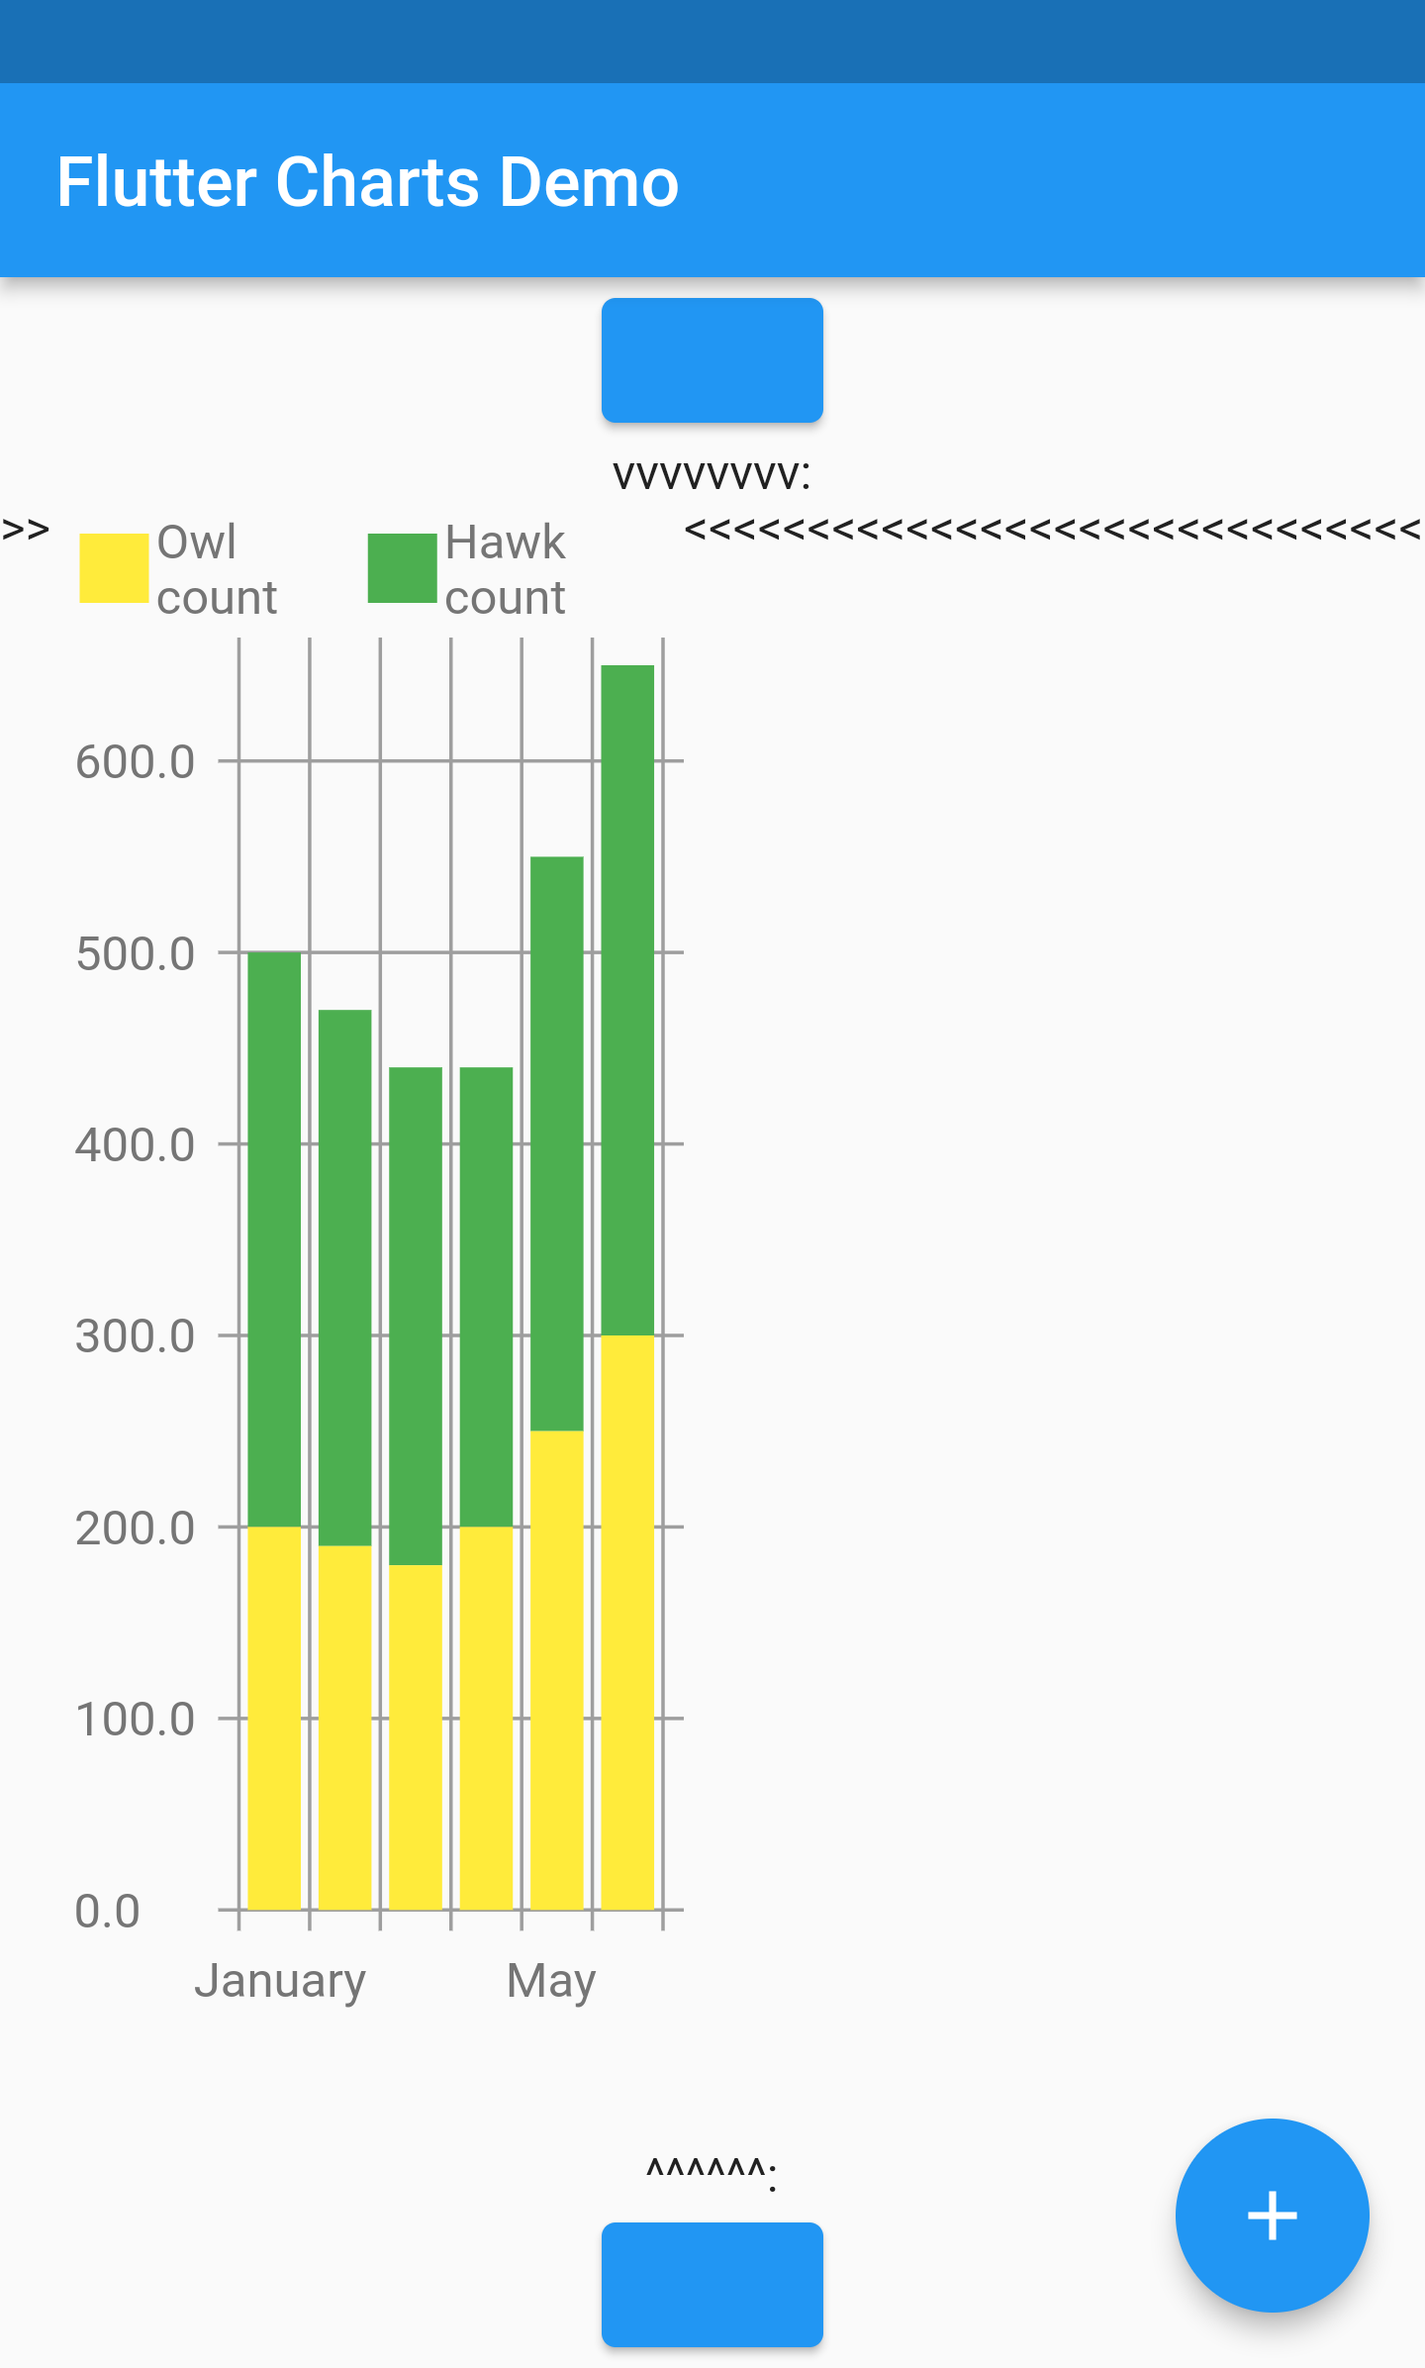
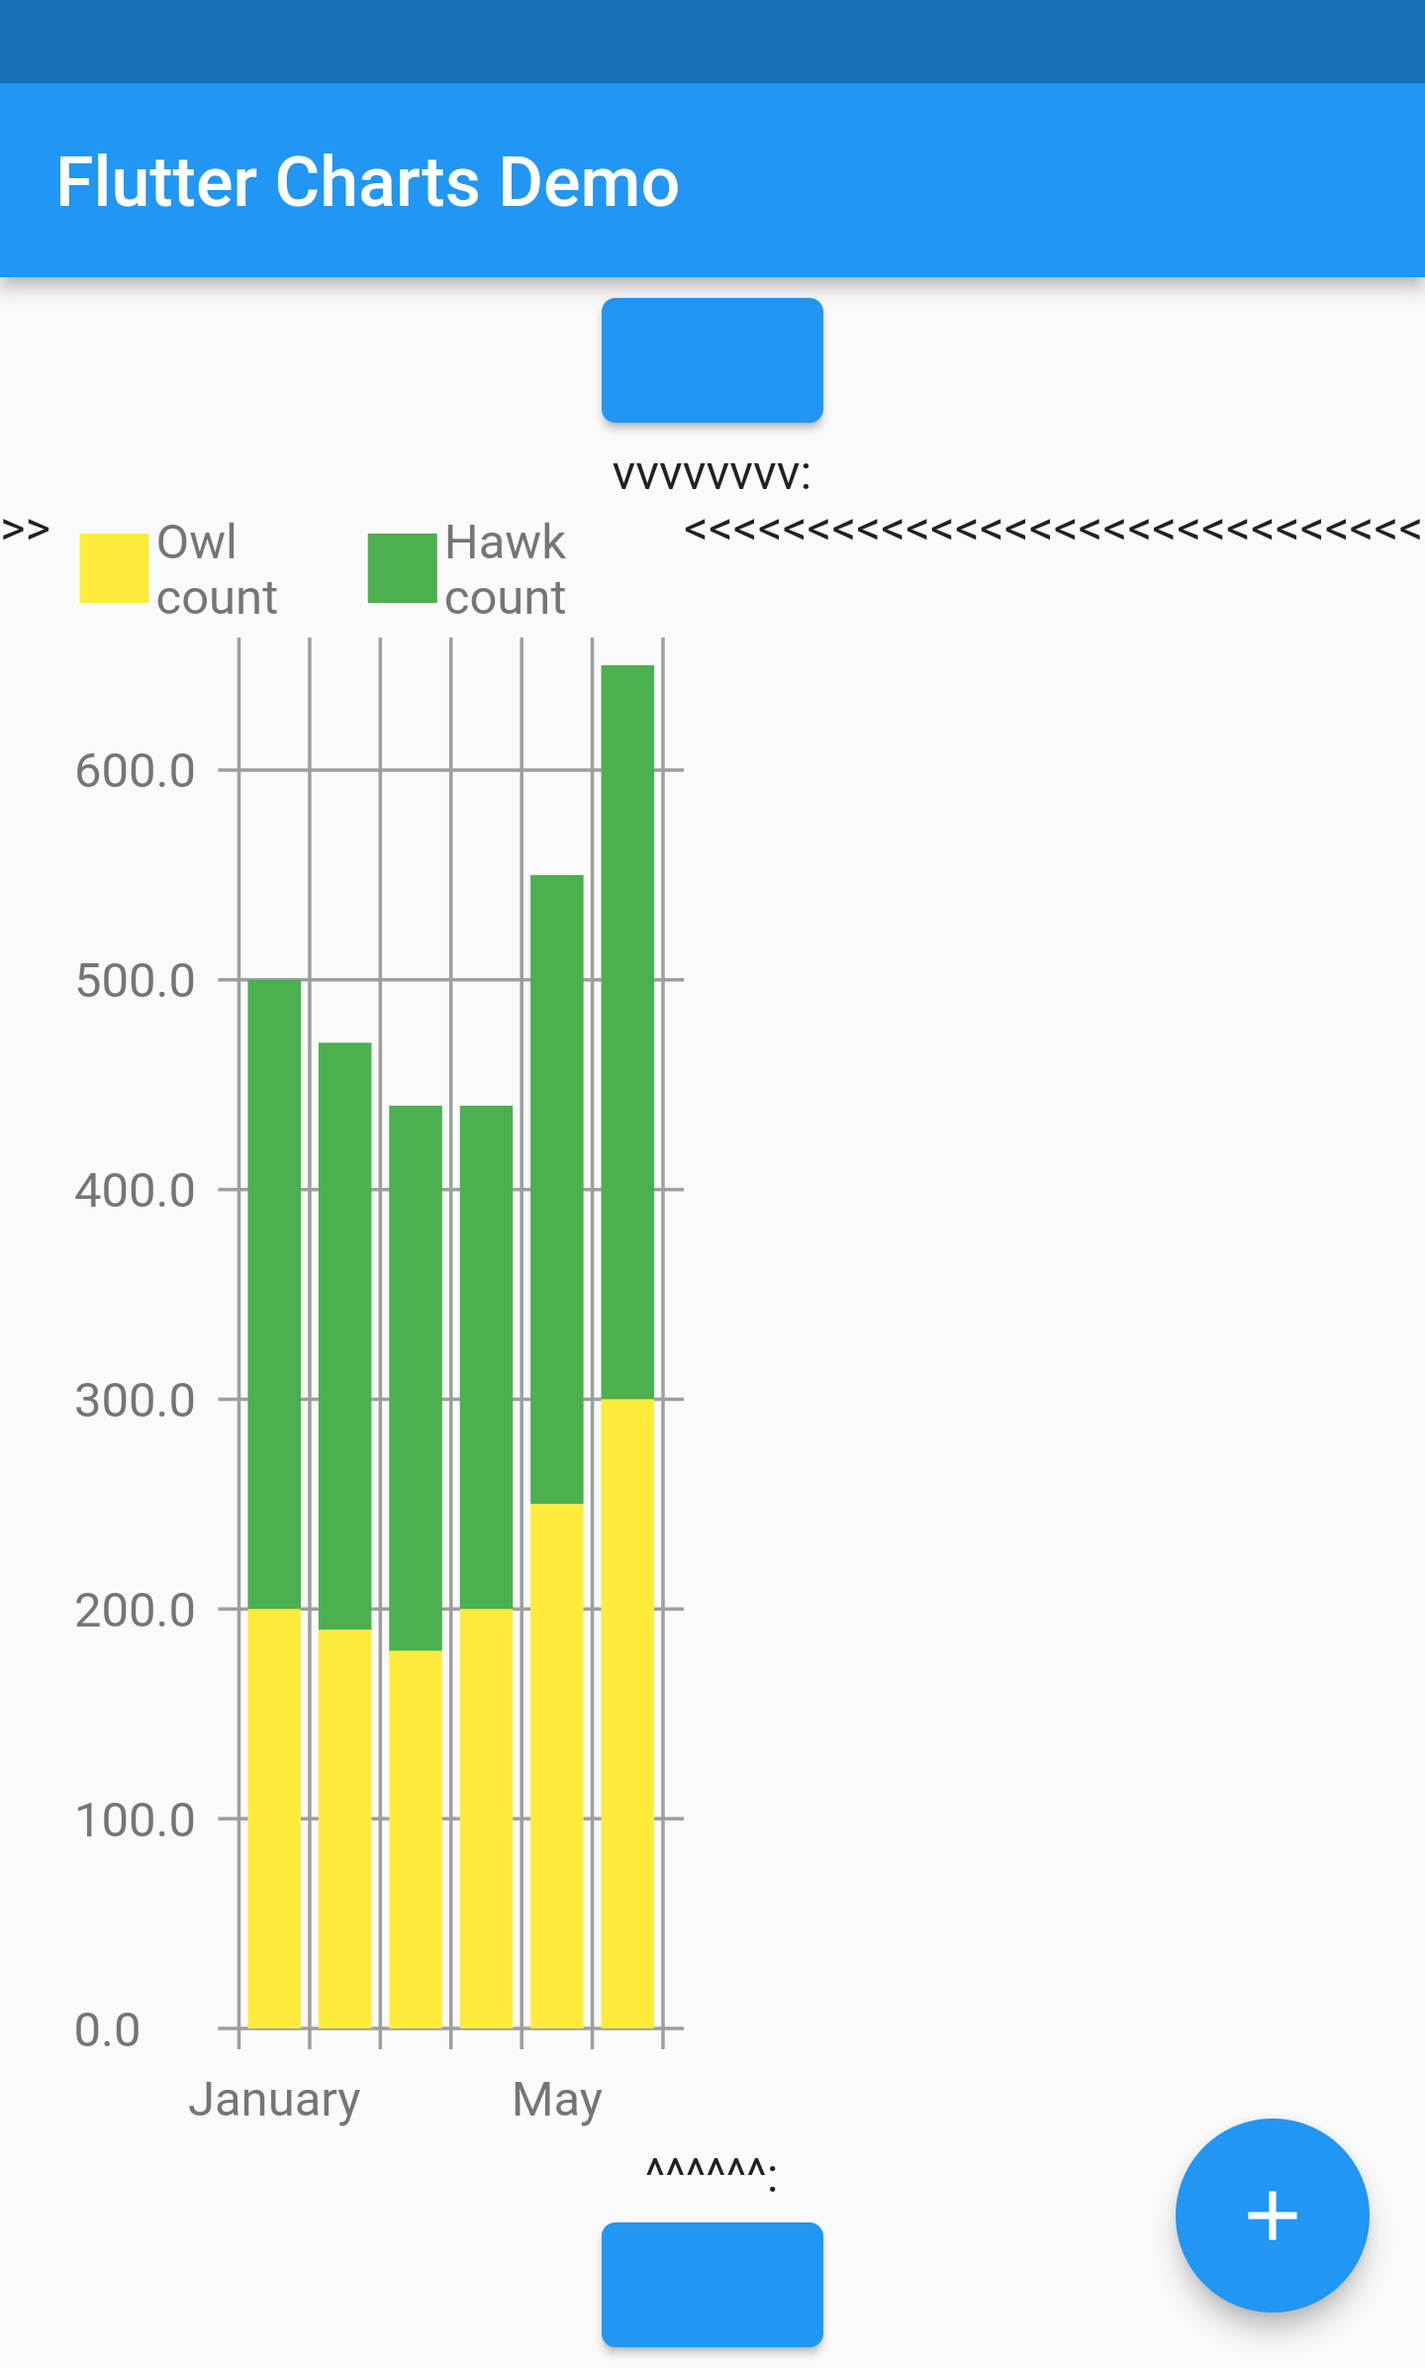
Working on generalized Containers.

diff --git a/lib/src/chart/label_container.dart b/lib/src/chart/label_container.dart
@@ -36,20 +36,14 @@ class LabelContainer extends container_base.Container {
   /// Max width of label (outside constraint)
   final double _labelMaxWidth;
   
-  // todo-00-last
+  /// Offset of this [LabelContainer]'s label, created by the [_textPainter].
+  /// 
   Offset offsetOfPotentiallyRotatedLabel = Offset.zero;
-
-  /// For tilted labels, this is the forward rotation matrix
-  /// to apply on both Canvas AND label envelope's topLeft offset's coordinate
-  /// (pivoted on origin, once all chart offsets are applied to label).
-  /// This is always the inverse of [_labelTiltMatrix].
-  // todo-00-last final vector_math.Matrix2 _canvasTiltMatrix;
 
   /// Rotation matrix representing the angle by which the label is tilted.
   /// 
-  /// For tilted labels, this is the backward rotation matrix todo-00
-  /// to apply on both Canvas AND label envelope's topLeft offset's coordinate
-  /// (pivoted on origin, once all chart offsets are applied to label).
+  /// Tilting of labels is achieve by applying this [Matrix2] on the 
+  /// rectangle which surrounds the label text.
   final vector_math.Matrix2 _labelTiltMatrix;
 
   /// [TextPainter] wrapped in this label container.
@@ -74,11 +68,9 @@ class LabelContainer extends container_base.Container {
     required String label,
     required double labelMaxWidth,
     required vector_math.Matrix2 labelTiltMatrix,
-    // todo-00-last required vector_math.Matrix2 canvasTiltMatrix,
     required LabelStyle labelStyle,
   })  : _labelMaxWidth = labelMaxWidth,
         _labelTiltMatrix = labelTiltMatrix,
-        // todo-00-last _canvasTiltMatrix = canvasTiltMatrix,
         // _labelStyle = labelStyle,
         _textPainter = widgets.TextPainter(
           text: widgets.TextSpan(
@@ -113,17 +105,24 @@ class LabelContainer extends container_base.Container {
 
   // #####  Implementors of method in superclass [Container].
 
-  // todo-00-last: 
+  // todo-01-document : 
+  /// Calls super method, then adds the passed [offset] the locally-kept slot
+  /// [offsetOfPotentiallyRotatedLabel].
   @override
   void applyParentOffset(ui.Offset offset) {
     super.applyParentOffset(offset);
-    offsetOfPotentiallyRotatedLabel += offset;
+    // todo-00-last: For [LabelContainers] for which Canvas will be rotated counter-clockwise,
+    //               offset needs to be rotated clockwise before adding it.
+    //////////// vvvvvvvvvvvv added
+    rotateLabelEnvelopeAgainstCanvasToFindOffsetToPaintIt();    
+    ////////////^^^^^^^^^^^^^^^
+    
+    // offsetOfPotentiallyRotatedLabel += offset;
   }
   
   /// Implementor of method in superclass [Container].
   @override
   void paint(ui.Canvas canvas) {
-    // todo-00-last _textPainter.paint(canvas, offset);
     _textPainter.paint(canvas, offsetOfPotentiallyRotatedLabel);
   }
 
@@ -136,21 +135,33 @@ class LabelContainer extends container_base.Container {
     _tiltedLabelEnvelope = _createLabelEnvelope();
   }
 
-/* todo-00-last
-  geometry.EnvelopedRotatedRect _createLabelEnvelope() {
-    // todo-00-last : Just make offset zero
-    assert(offset == ui.Offset.zero);
-    // Only after layout, we know the envelope of tilted label
-    return geometry.EnvelopedRotatedRect.centerRotatedFrom(
-      rect: offset & _textPainter.size, // offset & size => Rect
-      rotateMatrix: _labelTiltMatrix,
+  /// Rotate this label around origin along with Canvas, to achieve label tilt.
+  ///
+  /// Must be called only in paint()
+  void rotateLabelEnvelopeAgainstCanvasToFindOffsetToPaintIt() {
+    // In paint(), this label's offset is now the "absolute" offset in the chart
+    // The point in the tilted rectangle, where [TextPainter] should start
+    // painting the label is always topLeft in the envelope.
+    // The envelope is kept at (0,0), so find the full offset of
+    // the [_tiltedLabelEnvelope.topLeft] in the "absolute" coordinates,
+    // then rotate the result with Canvas.
+
+    // 
+    vector_math.Matrix2 canvasTiltMatrix = _labelTiltMatrix.clone();
+    canvasTiltMatrix.invert();
+/* todo-00-last: removed
+    offsetOfPotentiallyRotatedLabel = geometry.transform(
+      matrix: canvasTiltMatrix,
+      offset: (offsetOfPotentiallyRotatedLabel + _tiltedLabelEnvelope.topLeft),
+    );
+*/
+    offsetOfPotentiallyRotatedLabel = geometry.transform(
+      matrix: canvasTiltMatrix,
+      offset: (offset + _tiltedLabelEnvelope.topLeft),
     );
   }
-*/
-  
+
   geometry.EnvelopedRotatedRect _createLabelEnvelope() {
-    // todo-00-last : Just make offset zero
-    // todo-00-last assert(offset == ui.Offset.zero);
     // Only after layout, we know the envelope of tilted label
     return geometry.EnvelopedRotatedRect.centerRotatedFrom(
       rect: ui.Offset.zero & _textPainter.size, // offset & size => Rect
@@ -262,57 +273,21 @@ class AxisLabelContainer extends LabelContainer {
   /// but both x and y label containers can be skipped
   /// (tick dashes should not?).
   ///
+  // todo-01 how is this used?
   double parentOffsetTick = 0.0;
 
   AxisLabelContainer({
     required String label,
     required double labelMaxWidth,
     required vector_math.Matrix2 labelTiltMatrix,
-    // todo-00-last required vector_math.Matrix2 canvasTiltMatrix,
     required LabelStyle labelStyle,
   }) : super(
           label: label,
           labelMaxWidth: labelMaxWidth,
           labelTiltMatrix: labelTiltMatrix,
-    // todo-00-last canvasTiltMatrix: canvasTiltMatrix,
           labelStyle: labelStyle,
         );
 
-  /// Rotate this label around origin along with Canvas, to achieve label tilt.
-  ///
-  /// Must be called only in paint()
-  void rotateLabelEnvelopeAgainstCanvasToFindOffsetToPaintIt() {
-    // In paint(), this label's offset is now the "absolute" offset in the chart
-    // The point in the tilted rectangle, where [TextPainter] should start
-    // painting the label is always topLeft in the envelope.
-    // The envelope is kept at (0,0), so find the full offset of
-    // the [_tiltedLabelEnvelope.topLeft] in the "absolute" coordinates,
-    // then rotate the result with Canvas.
-
-    // 
-/* todo-00-last
-    vector_math.Matrix2 canvasTiltMatrix = _labelTiltMatrix.clone();
-    canvasTiltMatrix.invert();
-    offset = geometry.transform(
-      // todo-00-last matrix: _canvasTiltMatrix,
-      matrix: canvasTiltMatrix,
-      offset: (offset + _tiltedLabelEnvelope.topLeft),
-    );
-*/
-    vector_math.Matrix2 canvasTiltMatrix = _labelTiltMatrix.clone();
-    canvasTiltMatrix.invert();
-    offsetOfPotentiallyRotatedLabel = geometry.transform(
-      // todo-00-last matrix: _canvasTiltMatrix,
-      matrix: canvasTiltMatrix,
-      offset: (offsetOfPotentiallyRotatedLabel + _tiltedLabelEnvelope.topLeft),
-    );
-    
-    // todo-00-last: This is the only place where offset is set directly, outside applyParentOffset. Is it possible, instead of setting direct,  call it?
-    // No, because applyParentOffset adds , but here we need to wipe it out.
-    // For this purpose, we should add a FIELD to LabelContainer , say offsetForPainting, that is kept in sync with offset.
-    // Then offset can remain completely private, managed only by:
-    // Container.transform with special case Container.translate=applyParentOffset. 
-  }
 
   
 }

diff --git a/lib/src/chart/iterative_layout_strategy.dart b/lib/src/chart/iterative_layout_strategy.dart
@@ -66,17 +66,14 @@ class DefaultIterativeLabelLayoutStrategy extends LabelLayoutStrategy {
 
   final double _decreaseLabelFontRatio;
 
+  /// Angle by which labels are tilted.
+  /// 
   /// For tilted labels, this is the forward rotation matrix
   /// to apply on both Canvas AND label envelope's topLeft offset's coordinate
   /// (pivoted on origin, once all chart offsets are applied to label).
   /// This is always the inverse of [_labelTiltMatrix].
   /// Just passed down to [LabelContainer]s.
-  // todo-00-last vector_math.Matrix2 _canvasTiltMatrix = vector_math.Matrix2.identity();
-  // todo-00-last 
-  // todo-00-last @override
-  // todo-00-last vector_math.Matrix2 get canvasTiltMatrix => _canvasTiltMatrix;
 
-  /// Angle by which labels are tilted.
   /// Just passed down to [LabelContainer]s.
   /// todo-01-last document 
   vector_math.Matrix2 _labelTiltMatrix = vector_math.Matrix2.identity();
@@ -155,23 +152,34 @@ class DefaultIterativeLabelLayoutStrategy extends LabelLayoutStrategy {
       throw StateError('angle must be between -PI and +PI');
     }
 
-    _makeTiltMatricesFromTiltRadians();
+    // todo-00-last moved inline_makeTiltMatricesFromTiltRadians();
+
+    _labelTiltMatrix = vector_math.Matrix2.rotation(_labelTiltRadians);
+
+    // todo-00-last moved here from paint()
+    _adjustableLabelsContainer.rotateLabelEnvelopesAgainstCanvasToFindOffsets();
+    
   }
 
+/* todo-00-last
   void _makeTiltMatricesFromTiltRadians() {
-    // todo-00-last _canvasTiltMatrix = vector_math.Matrix2.rotation(_labelTiltRadians);
-    // label is actually tilted in the direction when canvas is rotated back,
-    //   so the label tilt is inverse of the canvas tilt
-    // todo-00-last : _labelTiltMatrix = vector_math.Matrix2.rotation(-_labelTiltRadians);
+    // The label tilt is inverse of the canvas tilt
     _labelTiltMatrix = vector_math.Matrix2.rotation(_labelTiltRadians);
   }
+*/
 
   void _reLayoutDecreaseLabelFont() {
+    // Reinitialize the tilt matrix, as previous tilt iteration may have set a rotation.
+    _labelTiltMatrix = vector_math.Matrix2.identity();
+
     // Decrease font (already init-ted from options), and call layout again
     _labelFontSize *= _decreaseLabelFontRatio;
   }
 
   void _reLayoutSkipLabels() {
+    // Reinitialize the tilt matrix, as previous tilt iteration may have set a rotation.
+    _labelTiltMatrix = vector_math.Matrix2.identity();
+    
     // Most advanced; Keep list of labels, but only display every nth
     _showEveryNthLabel *= _multiplyLabelSkip;
   }
@@ -213,18 +221,9 @@ abstract class LabelLayoutStrategy {
   /// This is needed by paint methods to rotate canvas.
   bool get isRotateLabelsReLayout;
 
-  /// For tilted labels, this is the forward rotation matrix
-  /// to apply on both Canvas AND label envelope's topLeft offset's coordinate
-  /// (pivoted on origin, once all chart offsets are applied to label).
-  /// This is always the inverse of [labelTiltMatrix].
-  /// Just passed down to [LabelContainer]s.
-  // todo-00-last vector_math.Matrix2 get canvasTiltMatrix => vector_math.Matrix2.identity();
-
   /// Rotation matrix corresponding to the angle by which labels are tilted.
   /// 
-  /// So, it is the inverse rotation matrix
-  /// 
-  /// The reason for 
+  /// Identity for horizontal labels.
   /// Just passed down to [LabelContainer]s.
   vector_math.Matrix2 get labelTiltMatrix => vector_math.Matrix2.identity();
 

diff --git a/lib/src/chart/container.dart b/lib/src/chart/container.dart
@@ -449,7 +449,6 @@ class YContainer extends ChartAreaContainer {
         label: labelInfo.formattedLabel,
         labelMaxWidth: double.infinity,
         labelTiltMatrix: vector_math.Matrix2.identity(),
-        // todo-00-last canvasTiltMatrix: vector_math.Matrix2.identity(),
         labelStyle: labelStyle,
       );
       double labelTopY = yTickY - yLabelContainer.layoutSize.height / 2;
@@ -565,7 +564,6 @@ class XContainer extends AdjustableLabelsChartAreaContainer {
         label: xUserLabels[xIndex],
         labelMaxWidth: double.infinity,
         labelTiltMatrix: labelLayoutStrategy.labelTiltMatrix,
-        // todo-00-last canvasTiltMatrix: labelLayoutStrategy.canvasTiltMatrix,
         labelStyle: labelStyle,
       );
       xLabelContainer.skipByParent = !_isLabelOnIndexShown(xIndex);
@@ -656,10 +654,9 @@ class XContainer extends AdjustableLabelsChartAreaContainer {
     if (labelLayoutStrategy.isRotateLabelsReLayout) {
       // Tilted X labels. Must use canvas and offset coordinate rotation.
       canvas.save();
-// todo-00-last      canvas.rotate(-1 * labelLayoutStrategy.labelTiltRadians);
       canvas.rotate(labelLayoutStrategy.labelTiltRadians);
 
-      _rotateLabelEnvelopesAgainstCanvasToFindOffsets();
+      // todo-00-last : moved from here to reLayout rotation section : rotateLabelEnvelopesAgainstCanvasToFindOffsets();
       _paintLabelContainers(canvas);
 
       canvas.restore();
@@ -669,7 +666,8 @@ class XContainer extends AdjustableLabelsChartAreaContainer {
     }
   }
 
-  void _rotateLabelEnvelopesAgainstCanvasToFindOffsets() {
+  @override
+  void rotateLabelEnvelopesAgainstCanvasToFindOffsets() {
     for (AxisLabelContainer xLabelContainer in _xLabelContainers) {
       xLabelContainer.rotateLabelEnvelopeAgainstCanvasToFindOffsetToPaintIt();
     }
@@ -742,6 +740,10 @@ abstract class AdjustableLabelsChartAreaContainer extends ChartAreaContainer imp
     // Must initialize in body, as access to 'this' not available in initializer.
     _labelLayoutStrategy.onContainer(this);
   }
+
+  /// todo-00-last added abstract that can be called from LayoutStrategy.reLayout
+  /// 
+  void rotateLabelEnvelopesAgainstCanvasToFindOffsets();
 }
 
 /// Base class which manages, lays out, moves, and paints
@@ -1161,7 +1163,6 @@ class LegendItemContainer extends Container {
       label: _label,
       labelMaxWidth: labelMaxWidth,
       labelTiltMatrix: vector_math.Matrix2.identity(),
-      // todo-00-last canvasTiltMatrix: vector_math.Matrix2.identity(),
       labelStyle: _labelStyle,
     );
 

diff --git a/lib/src/chart/options.dart b/lib/src/chart/options.dart
@@ -85,8 +85,7 @@ class IterativeLayoutOptions {
     this.decreaseLabelFontRatio = 1.0,
     this.showEveryNthLabel = 1,
     this.multiplyLabelSkip = 2,
-    // todo-00-last this.labelTiltRadians = math.pi / 4,
-    this.labelTiltRadians = -math.pi / 4, // negative rotation is counter-clockwise which is what we want
+    this.labelTiltRadians = -math.pi / 4, // negative rotation is counter-clockwise, generally preferred for labels
   });
 }
 

diff --git a/lib/src/util/geometry.dart b/lib/src/util/geometry.dart
@@ -36,7 +36,7 @@ ui.Offset transform({
 /// *Note that the rotation origin ("pivot") is NOT the center of the coordinate
 /// system, but the center of the rectangle*.
 ///
-/// Positive rotations are counter clockwise, as in math.
+/// Positive rotations are clockwise, which is DIFFERENT from math.
 ///
 /// Pictorial example of the corners of the [sourceRect]
 /// rotated by (about) by -PI/4 (first picture) and +PI/4 (second)
